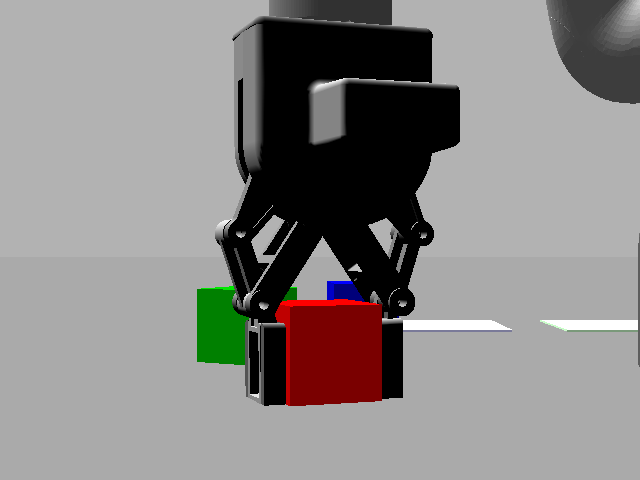
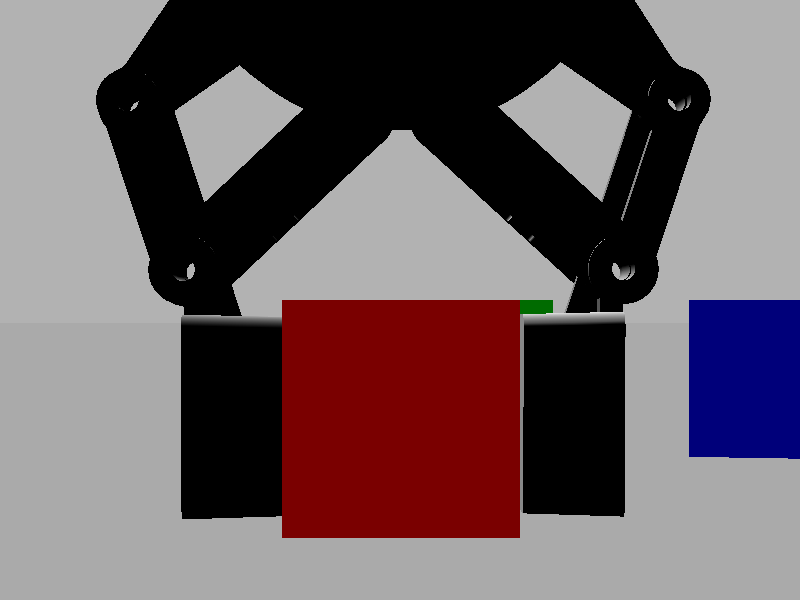
Stop the finger pads from sinking into the cubes
The gripper was closed to a 20 mm pad gap on a 30 mm cube, so each pad
went 5 mm into the cube. The earlier gap estimate was read from stale
camera frames and was wrong.

- Measured the pad gap against the gripper joint value by image
  analysis (42 mm open to 17 mm closed) and close to cube width + 0.6 mm
- Added collision boxes for the two finger pads to the Gazebo copy of
  the model, so the pads push the cube to the centre and square it up
- Corrected the grasp point with the precise measurements
- README: corrected the wrong statement that the gripper cannot close
  below 29 mm

Measured at grasp: pads in contact with the cube, no penetration.

diff --git a/mycobot_280/mycobot_280_vision_pick/scripts/pick_place.py b/mycobot_280/mycobot_280_vision_pick/scripts/pick_place.py
@@ -17,6 +17,18 @@ from std_msgs.msg import String
 from visualization_msgs.msg import Marker, MarkerArray
 
 
+# Distance between the inner faces of the two finger pads (mm) for gripper_controller
+# joint values (rad). Measured in Gazebo from background-subtracted silhouettes of the
+# gripper, 0.09 mm/pixel. Re-measure for a different gripper.
+GRIPPER_GAP = [(-0.50, 17.35), (-0.45, 19.97), (-0.40, 22.51), (-0.30, 27.38),
+               (-0.20, 31.79), (-0.10, 35.73), (0.00, 39.11), (0.10, 42.01)]
+
+
+def gripper_value_for_gap(gap):
+    """gripper_controller joint value that opens the pads to `gap` metres."""
+    return float(np.interp(gap * 1000.0, [g for _, g in GRIPPER_GAP], [q for q, _ in GRIPPER_GAP]))
+
+
 class PickPlace:
     def __init__(self):
         # move_group takes a while to come up when everything starts from one launch file
@@ -27,15 +39,16 @@ class PickPlace:
         self.arm.set_planning_time(5.0)
         self.arm.set_num_planning_attempts(5)
 
-        # Grasp point = centre of the two finger pads when closed, in the joint6_flange frame.
-        # Measured in Gazebo: the pads hang 88-115 mm below the flange and sit 8 mm off its axis.
-        # Calibration knob: re-measure for a different gripper.
-        self.tcp = np.array(rospy.get_param("~tcp_offset", [0.0, 0.008, 0.102]))
+        # Grasp point = centre of the two finger pads when closed on a cube, in the
+        # joint6_flange frame. Measured in Gazebo: the pads hang 88-114 mm below the flange
+        # and sit 7.7 mm off its axis. Calibration knob: re-measure for a different gripper.
+        self.tcp = np.array(rospy.get_param("~tcp_offset", [-0.0007, 0.0077, 0.101]))
         self.cube_size = rospy.get_param("~cube_size", 0.03)
         self.approach = rospy.get_param("~approach_height", 0.06)
         self.place_clearance = rospy.get_param("~place_clearance", 0.0005)  # gap under the cube when released (m)
         self.grip_open = rospy.get_param("~gripper_open", 0.1)
-        self.grip_closed = rospy.get_param("~gripper_closed", -0.45)  # pad gap ~30 mm
+        # Close until the pads are just at the cube's faces (0.3 mm free per side), not into them
+        self.grip_closed = gripper_value_for_gap(self.cube_size + rospy.get_param("~grasp_clearance", 0.0006))
         self.observe_joints = rospy.get_param("~observe_joints", [-1.57, 0.0, 0.0, 0.0, 0.0, 0.0])
         self.pads = rospy.get_param("~pads", {"red": [0.0, 0.20], "green": [0.0, -0.20], "blue": [0.10, -0.20]})
 

diff --git a/mycobot_280/mycobot_280_vision_pick/README.md b/mycobot_280/mycobot_280_vision_pick/README.md
@@ -94,16 +94,22 @@ The floor and a box covering the whole hand are added to MoveIt's planning scene
 planned motions keep the gripper above the ground (the upstream model only has tiny
 collision cylinders on the gripper).
 
-The grasp point was measured in Gazebo: the finger pads hang 88-115 mm below the
-flange, 8 mm off its axis, and close to a gap of about 29 mm. That is why the cubes
-are 30 mm wide: this gripper cannot pinch anything narrower.
+The gripper geometry was measured in Gazebo from background-subtracted silhouettes
+(0.09 mm per pixel): the finger pads hang 88-114 mm below the flange, 7.7 mm off its
+axis, and the gap between them goes from 42 mm (open) to 17 mm (closed). The measured
+gap table is in `pick_place.py`; the gripper is closed to the cube width plus 0.6 mm,
+so the pads stop at the cube's faces instead of sinking into them.
 
 ### 3. Grasping (`src/gripper_attach_plugin.cpp`)
 
-The gripper's collision shapes in the upstream model are tiny cylinders, so a pure
-friction grasp slips in Gazebo. As most Gazebo pick-and-place demos do, the cube is
-welded to the gripper with a fixed joint once the fingers have closed, and released
-at the pad. The plugin listens on `/vision_pick/attach` (model name = attach,
+The upstream model only has tiny collision cylinders at the finger pivots, so the
+pads would pass straight through a cube. This package adds a collision box to each
+pad (Gazebo copy of the model only, see the xacro). When the gripper closes, the pads
+physically push the cube to the centre and square it up, like a real parallel gripper.
+
+Holding the cube by friction alone is unreliable in Gazebo, so, as most Gazebo
+pick-and-place demos do, the cube is then welded to the gripper with a fixed joint and
+released at the pad. The plugin listens on `/vision_pick/attach` (model name = attach,
 empty string = detach).
 
 ![grasp](docs/grasp_side_view.png)
@@ -115,6 +121,7 @@ empty string = detach).
 | Detection error, position | ≤ 3 mm (vs. Gazebo ground truth) |
 | Detection error, yaw | ≤ 6° |
 | Placement error on the pad | ≤ 3 mm |
+| Pad-to-cube gap when grasped | pads touch, 0.0 mm penetration; cube squared up to the pads within 0.01° |
 | Cubes sorted | 3 of 3, repeatable over consecutive runs |
 
 ## Tuning
@@ -123,8 +130,9 @@ Parameters of `pick_place.py` (private ROS params):
 
 | Parameter | Default | Meaning |
 |---|---|---|
-| `tcp_offset` | `[0, 0.008, 0.102]` | Grasp point (centre of the closed finger pads) in the `joint6_flange` frame (m) |
-| `gripper_open` / `gripper_closed` | `0.1` / `-0.45` | `gripper_controller` joint values (rad) |
+| `tcp_offset` | `[-0.0007, 0.0077, 0.101]` | Grasp point (centre of the closed finger pads) in the `joint6_flange` frame (m) |
+| `gripper_open` | `0.1` | `gripper_controller` joint value when open (rad) |
+| `grasp_clearance` | `0.0006` | Extra pad opening on top of the cube width when grasping (m) |
 | `approach_height` | `0.06` | Height above the cube for approach/retreat (m) |
 | `place_clearance` | `0.0005` | Gap left under the cube when it is released (m). The cube is set down before the weld is released, so it does not drop |
 | `pads` | red `[0, 0.2]`, green `[0, -0.2]`, blue `[0.1, -0.2]` | Drop-off positions (m) |
